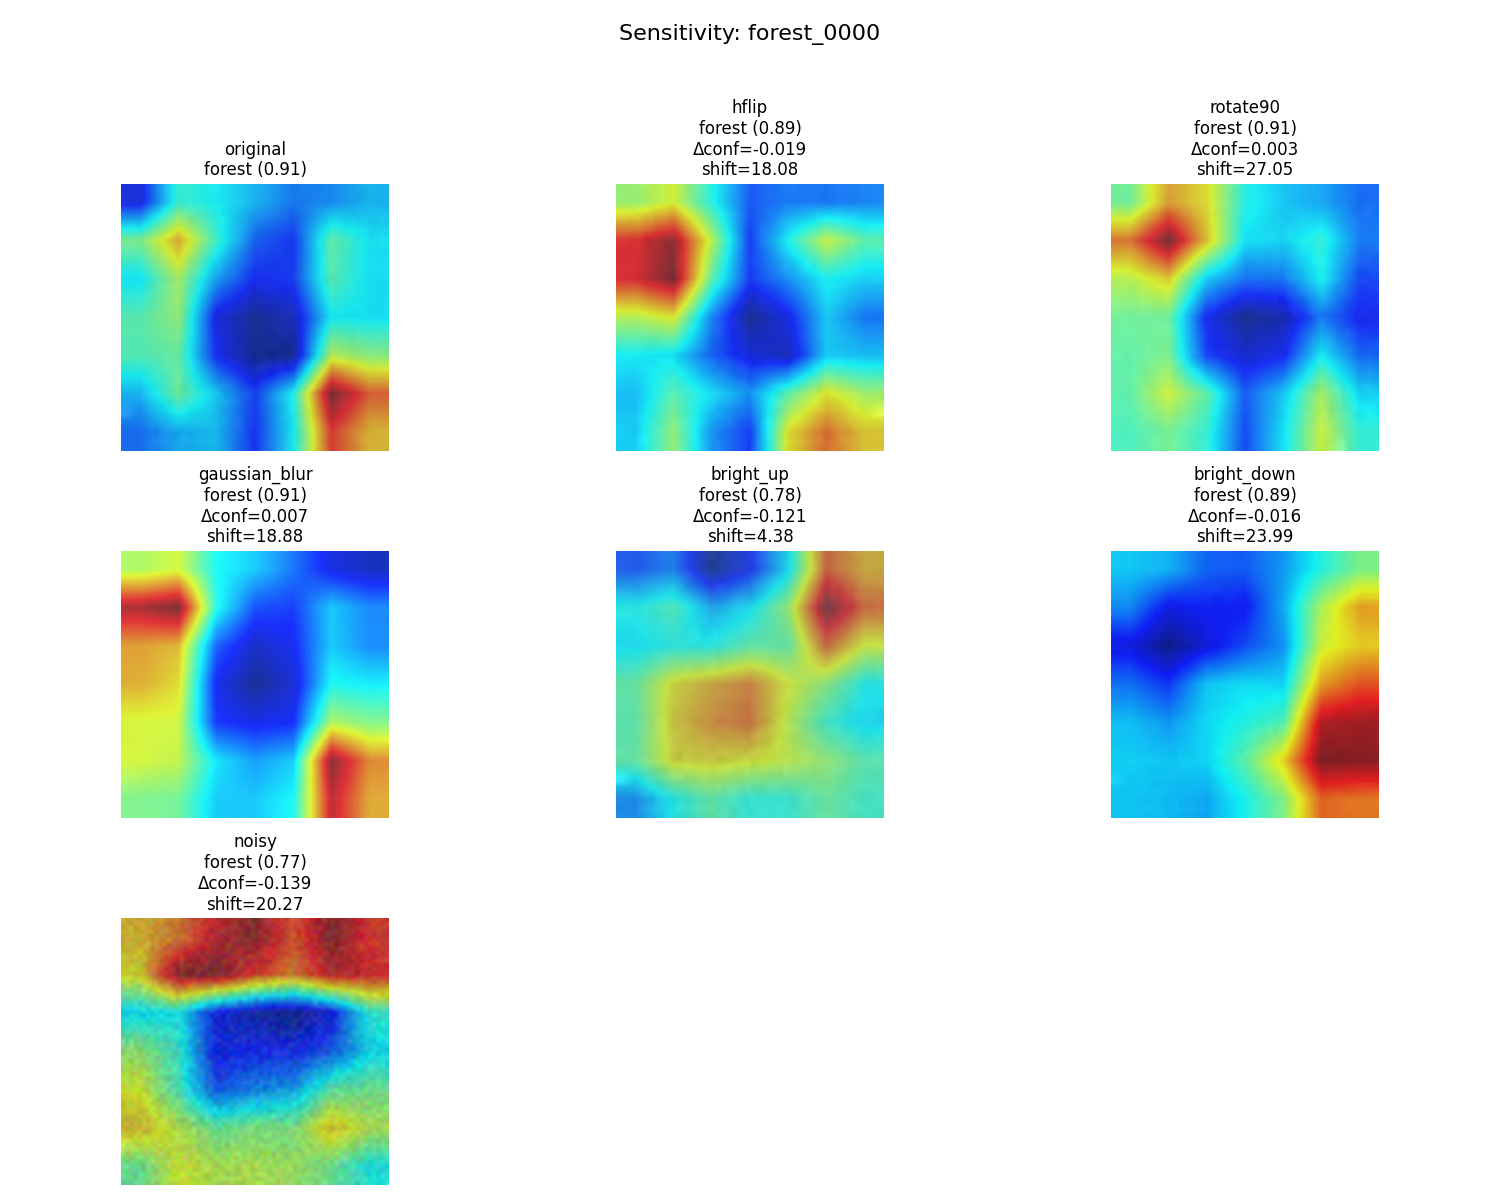
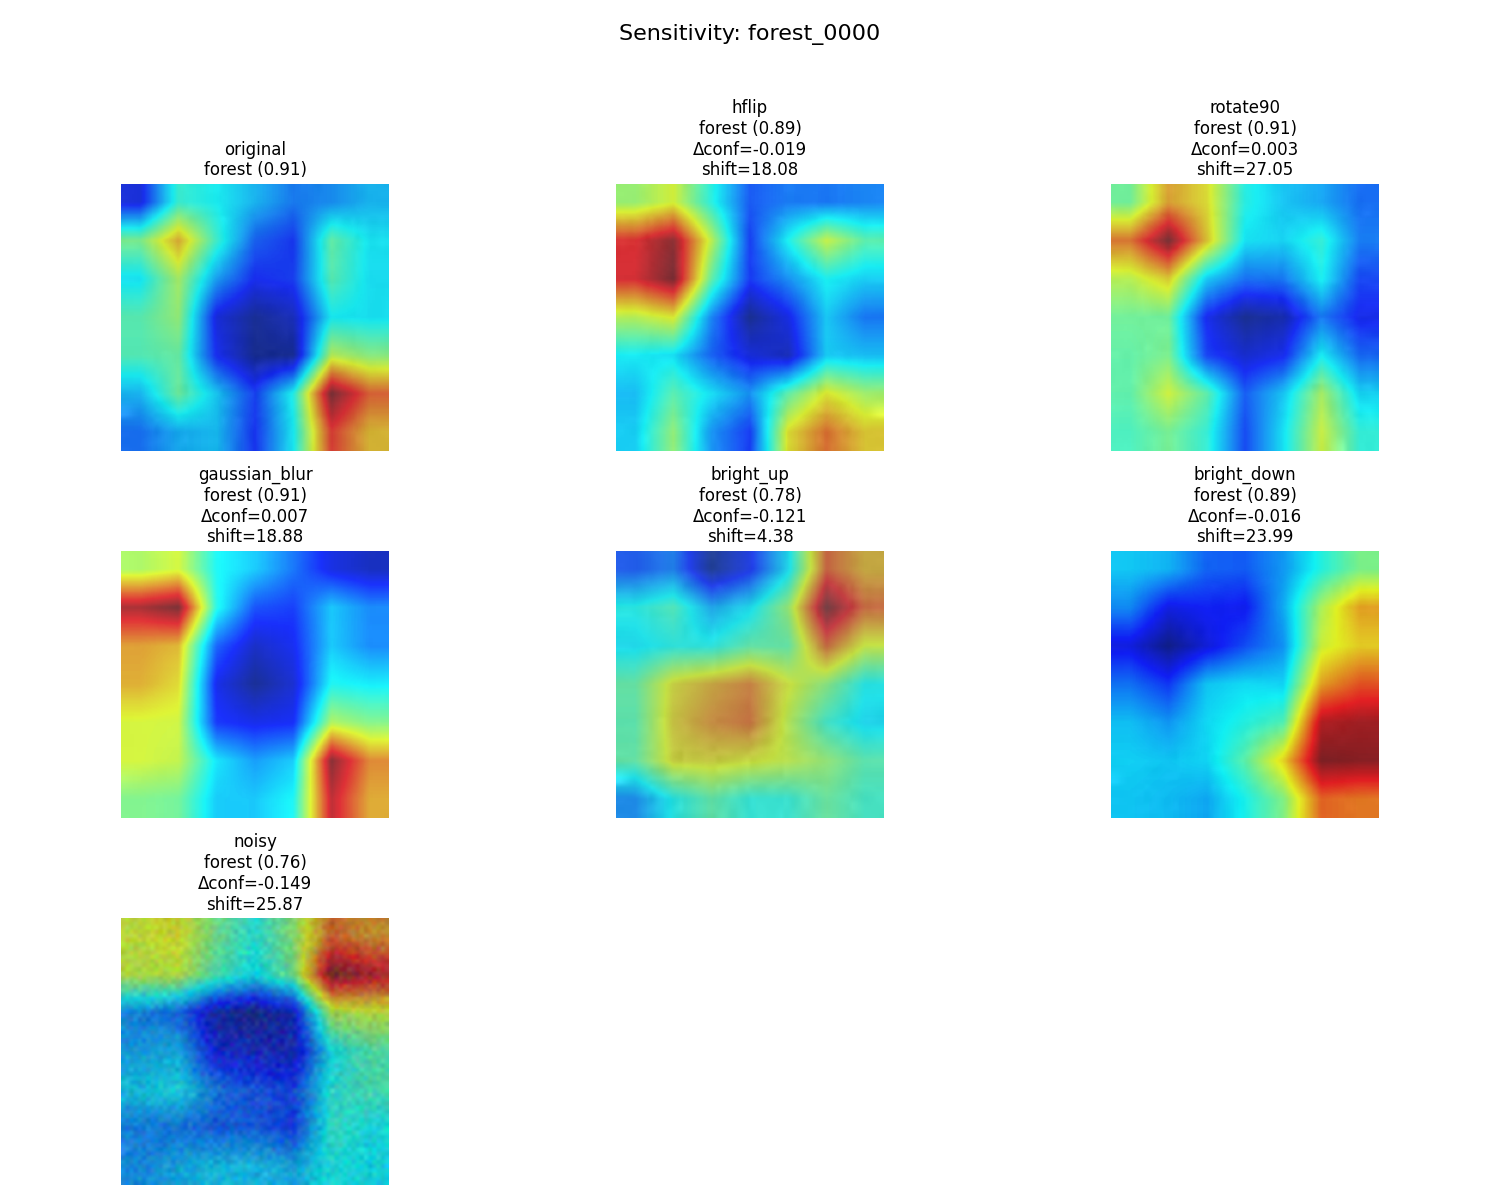
Lab-10 Task 3 Done

Changed region(s): [[0.0613, 0.7092, 0.276, 0.9867]]

diff --git a/Lab-10/src/vision/create_gradcam.py b/Lab-10/src/vision/create_gradcam.py
@@ -13,6 +13,8 @@ from paths import (
     PROJECT_DIR,
 )
 from PIL import Image, ImageFilter, ImageEnhance
+import csv
+import random
 from pytorch_grad_cam import EigenCAM, GradCAM, HiResCAM, LayerCAM
 from pytorch_grad_cam.utils.image import show_cam_on_image
 from torchvision import models, transforms
@@ -312,12 +314,151 @@ def run_transform_sensitivity(image_path, model, class_names, out_dir, max_trans
     return results
 
 
+def compute_iou_from_heatmaps(h1, h2, thresh_quantile=0.7):
+    h1n = (h1 - h1.min()) / (h1.max() - h1.min() + 1e-8)
+    h2n = (h2 - h2.min()) / (h2.max() - h2.min() + 1e-8)
+    thr1 = np.quantile(h1n, thresh_quantile)
+    thr2 = np.quantile(h2n, thresh_quantile)
+    m1 = h1n >= thr1
+    m2 = h2n >= thr2
+    inter = np.logical_and(m1, m2).sum()
+    union = np.logical_or(m1, m2).sum()
+    if union == 0:
+        return 0.0
+    return inter / union
+
+
+def center_crop(pil_img, fraction=0.8):
+    w, h = pil_img.size
+    new_w = int(w * fraction)
+    new_h = int(h * fraction)
+    left = (w - new_w) // 2
+    top = (h - new_h) // 2
+    return pil_img.crop((left, top, left + new_w, top + new_h)).resize((w, h))
+
+
+def random_crop(pil_img, fraction=0.8):
+    w, h = pil_img.size
+    new_w = int(w * fraction)
+    new_h = int(h * fraction)
+    left = random.randint(0, w - new_w)
+    top = random.randint(0, h - new_h)
+    return pil_img.crop((left, top, left + new_w, top + new_h)).resize((w, h))
+
+
+def run_independent_experiment(model, class_names, out_dir, images_per_class=5):
+    grouped = get_sample_images_by_class()
+    rows = []
+
+    noise_levels = [0.02, 0.05, 0.1]
+    crops = {"center_crop": lambda im: center_crop(im, 0.8), "random_crop": lambda im: random_crop(im, 0.8)}
+
+    def process_transform(image_rel, pil_img, transform_name, orig_conf, orig_heat, orig_center, class_name):
+        t = pil_to_model_tensor(pil_img)
+        pred, conf = predict(model, t, class_names)
+        heat = create_heatmap(model, t, GradCAM)
+        center = heatmap_center_of_mass(heat)
+        dist = math.hypot(center[0] - orig_center[0], center[1] - orig_center[1])
+        iou = compute_iou_from_heatmaps(orig_heat, heat)
+        rows.append({
+            "image": image_rel,
+            "class": class_name,
+            "transform": transform_name,
+            "pred": pred,
+            "conf": conf,
+            "conf_delta": conf - orig_conf,
+            "center_shift": dist,
+            "cam_iou": iou,
+        })
+
+    for class_name, paths in grouped.items():
+        selected = list(paths)[:images_per_class]
+        for image_path in selected:
+            image_rel = str(image_path.relative_to(PROJECT_DIR))
+            pil = Image.open(image_path).convert("RGB")
+
+            # baseline
+            orig_tensor = pil_to_model_tensor(pil)
+            orig_pred, orig_conf = predict(model, orig_tensor, class_names)
+            orig_heat = create_heatmap(model, orig_tensor, GradCAM)
+            orig_center = heatmap_center_of_mass(orig_heat)
+
+            # record original row
+            rows.append({
+                "image": image_rel,
+                "class": class_name,
+                "transform": "original",
+                "pred": orig_pred,
+                "conf": orig_conf,
+                "conf_delta": 0.0,
+                "center_shift": 0.0,
+                "cam_iou": 1.0,
+            })
+
+            # brightness
+            process_transform(image_rel, ImageEnhance.Brightness(pil).enhance(1.5), "bright_up", orig_conf, orig_heat, orig_center, class_name)
+            process_transform(image_rel, ImageEnhance.Brightness(pil).enhance(0.6), "bright_down", orig_conf, orig_heat, orig_center, class_name)
+
+            # flip
+            process_transform(image_rel, pil.transpose(Image.FLIP_LEFT_RIGHT), "hflip", orig_conf, orig_heat, orig_center, class_name)
+
+            # rotate
+            process_transform(image_rel, pil.rotate(90, expand=True), "rotate90", orig_conf, orig_heat, orig_center, class_name)
+
+            # gaussian blur
+            process_transform(image_rel, pil.filter(ImageFilter.GaussianBlur(radius=2)), "gaussian_blur", orig_conf, orig_heat, orig_center, class_name)
+
+            # noise levels
+            arr = np.asarray(pil).astype(np.float32) / 255.0
+            for nl in noise_levels:
+                noise = np.random.normal(0, nl, size=arr.shape).astype(np.float32)
+                noisy = np.clip(arr + noise, 0.0, 1.0)
+                noisy_img = Image.fromarray((noisy * 255).astype(np.uint8))
+                process_transform(image_rel, noisy_img, f"noise_{nl}", orig_conf, orig_heat, orig_center, class_name)
+
+            # crops
+            for cname, func in crops.items():
+                cimg = func(pil)
+                process_transform(image_rel, cimg, cname, orig_conf, orig_heat, orig_center, class_name)
+
+    # write CSV
+    out_csv = out_dir / "experiment_summary.csv"
+    keys = ["image", "class", "transform", "pred", "conf", "conf_delta", "center_shift", "cam_iou"]
+    with open(out_csv, "w", newline="") as f:
+        writer = csv.DictWriter(f, fieldnames=keys)
+        writer.writeheader()
+        for r in rows:
+            writer.writerow(r)
+
+    import pandas as pd
+
+    df = pd.DataFrame(rows)
+    # boxplot conf_delta
+    plt.figure(figsize=(10, 6))
+    df.boxplot(column="conf_delta", by="transform", rot=45)
+    plt.title("ΔConfidence by transform")
+    plt.suptitle("")
+    plt.tight_layout()
+    plt.savefig(out_dir / "box_conf_delta.png")
+
+    plt.figure(figsize=(10, 6))
+    df.boxplot(column="center_shift", by="transform", rot=45)
+    plt.title("Center shift by transform")
+    plt.suptitle("")
+    plt.tight_layout()
+    plt.savefig(out_dir / "box_center_shift.png")
+
+    print(f"Experiment saved to {out_csv} and summary plots saved.")
+
+
+
 def main():
     GRADCAM_EXAMPLES_DIR.mkdir(parents=True, exist_ok=True)
 
     class_names = load_class_names()
     model = load_model(class_names)
 
+    print("Running Independent Task 1...")
     class_to_image_paths = get_sample_images_by_class()
     for class_name, image_paths in class_to_image_paths.items():
         safe_class_name = class_name.lower().replace(" ", "_")
@@ -331,12 +472,17 @@ def main():
 
     # Independent Task 2: sensitivity to image transformations
     # For each class, run analysis on the first image found
+    print("Running Independent Task 2...")
     for class_name, image_paths in class_to_image_paths.items():
         if not image_paths:
             continue
         image_path = image_paths[0]
         print(f"Running transform sensitivity for {class_name} / {image_path.name}")
         run_transform_sensitivity(image_path, model, class_names, GRADCAM_EXAMPLES_DIR)
+
+    # Independent Task 3: run the aggregated experiment across several images per class
+    print("Running Independent Task 3...")
+    run_independent_experiment(model, class_names, GRADCAM_EXAMPLES_DIR, images_per_class=3)
 
     comparison_image_path = get_image_path(TEST_DIR, f_num=0, img_num=0)
     comparison_image, comparison_tensor = load_image(comparison_image_path)
